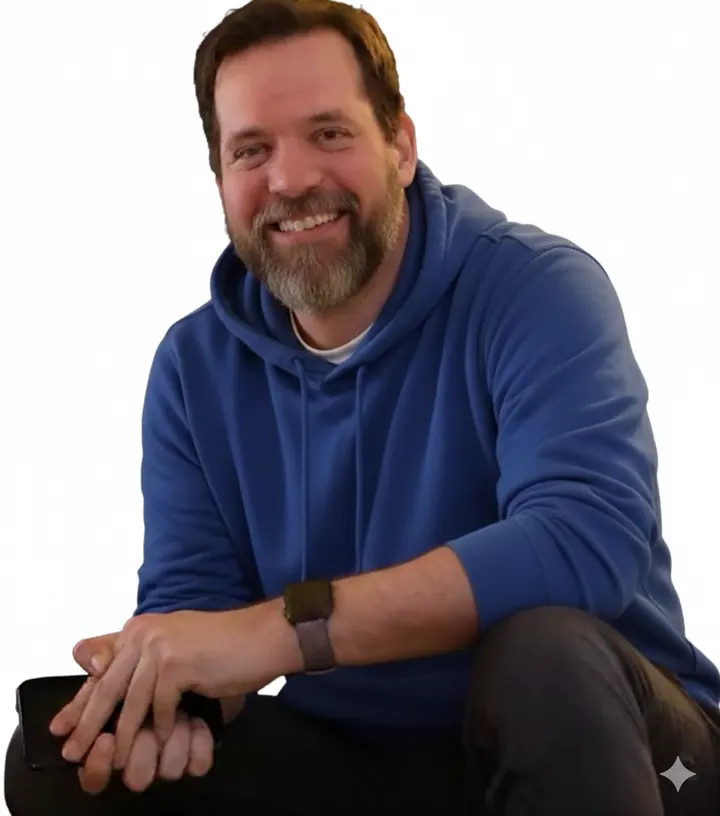
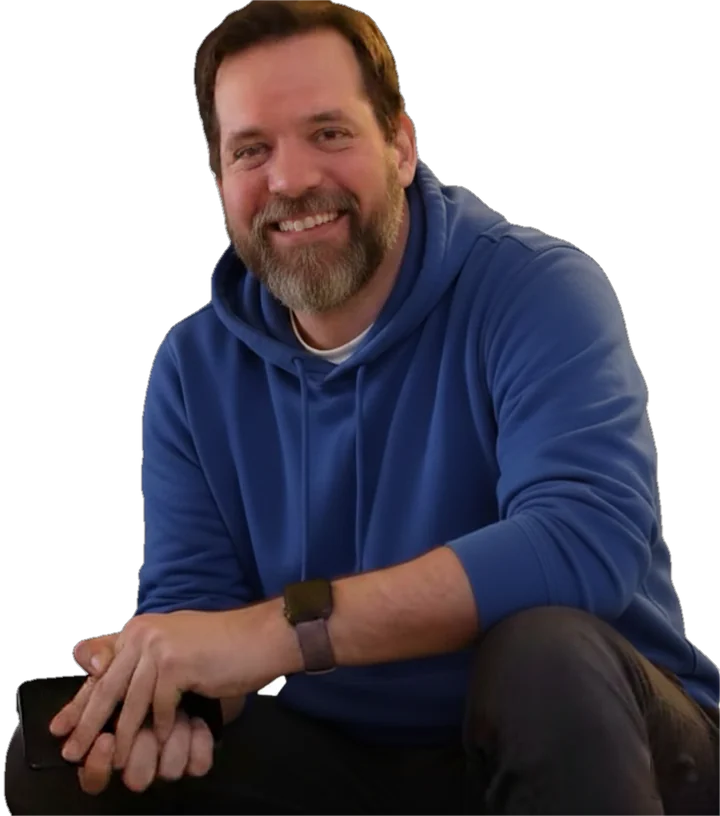
Soften homepage tone and use a transparent portrait
Cut the photo out with a clean alpha edge, drop the Gemini mark, and move the introduction below the contact buttons without the salesy claims.

diff --git a/index.html b/index.html
@@ -8,7 +8,7 @@
   <title>Computerhulp aan huis | Nijssen Computers</title>
   <meta name="description" content="Computerhulp aan huis in Leidschendam, Voorburg en Voorschoten. Jeroen Nijssen komt zelf bij u langs. Apple, Windows, Linux. Particulier €60 per uur.">
   <link rel="canonical" href="https://www.nijssencomputers.nl/">
-  <link rel="stylesheet" href="/style.css?v=20260924-home1">
+  <link rel="stylesheet" href="/style.css?v=20260924-home2">
   <meta property="og:type" content="website">
   <meta property="og:title" content="Computerhulp aan huis | Nijssen Computers">
   <meta property="og:description" content="Computerhulp aan huis in Leidschendam, Voorburg en Voorschoten. Jeroen Nijssen komt zelf bij u langs. Apple, Windows, Linux. Particulier €60 per uur.">
@@ -29,8 +29,8 @@
       allow_ad_personalization_signals: false
     });
   </script>
-  <script src="/nav.js?v=20260924-home1" defer></script>
-  <script src="/analytics-events.js?v=20260924-home1" defer></script>
+  <script src="/nav.js?v=20260924-home2" defer></script>
+  <script src="/analytics-events.js?v=20260924-home2" defer></script>
 </head>
 <body class="homepage">
   <a class="skip-link" href="#main-content">Direct naar de inhoud</a>
@@ -104,13 +104,12 @@
         <figure class="home-portrait">
           <picture>
             <source srcset="/jeroen-720.webp" type="image/webp">
-            <img src="/jeroen-720.jpg" alt="Jeroen Nijssen" class="home-portrait-img" width="720" height="816" fetchpriority="high" decoding="async">
+            <img src="/jeroen-720.png" alt="Jeroen Nijssen" class="home-portrait-img" width="720" height="816" fetchpriority="high" decoding="async">
           </picture>
         </figure>
         <div class="home-hero-copy">
           <h1>Computerhulp aan huis</h1>
-          <p class="home-lead">Ik ben Jeroen Nijssen. Ik kom zelf bij u langs — altijd dezelfde persoon, geen wisselende monteurs.</p>
-          <p class="hero-area">Ik woon in Leidschendam-Voorburg en help in Leidschendam, Voorburg, Voorschoten en omgeving.</p>
+          <p class="tagline">Ik help u met uw computer, telefoon, printer en wifi.</p>
           <div class="hero-actions">
             <a href="https://wa.me/31624382361" class="cta-button cta-whatsapp">WhatsApp Jeroen</a>
             <a href="tel:+31624382361" class="cta-button cta-phone">Bel 06 2438 2361</a>
@@ -118,25 +117,13 @@
           <p class="hero-note">Particulier €60 per uur · Sinds 2008</p>
         </div>
       </div>
+      <p class="home-intro">Ik ben Jeroen Nijssen. Sinds 2008 help ik particulieren en bedrijven met hun computers en andere apparaten. Ik woon in Leidschendam-Voorburg.</p>
     </section>
 
     <section id="over-mij" class="section-block home-about">
-      <h2>Wie er bij u in huis komt</h2>
-      <p>U belt of appt rechtstreeks met mij. Sinds 2008 help ik particulieren en bedrijven met computers en andere apparaten, met uitleg in gewone taal.</p>
-      <ul class="home-points">
-        <li>
-          <strong>Altijd dezelfde persoon</strong>
-          <span>Geen callcenter en geen wisselende ploeg. U spreekt mij, en ik kom zelf.</span>
-        </li>
-        <li>
-          <strong>Dichtbij, niet landelijk</strong>
-          <span>Ik woon in Leidschendam-Voorburg. Ik werk in deze regio, niet in heel Nederland.</span>
-        </li>
-        <li>
-          <strong>Eerst kijken, dan adviseren</strong>
-          <span>Geen onnodige vervanging van apparatuur, maar advies dat past bij uw situatie.</span>
-        </li>
-      </ul>
+      <h2>Over mij</h2>
+      <p>Als u belt of appt, krijgt u rechtstreeks contact met mij. Ik werk met Apple, Windows en Linux. Of het nu om een MacBook, een pc, een telefoon of een bedrijfsnetwerk gaat: ik leg uit wat er aan de hand is en wat er nodig is.</p>
+      <p>Geen onnodige vervanging van apparatuur, maar advies dat past bij uw situatie.</p>
     </section>
 
     <section id="tarief" class="section-block home-tarief">
@@ -185,7 +172,7 @@
     <section id="werkgebied" class="section-block home-area">
       <h2>Waar ik werk</h2>
       <p>Leidschendam, Voorburg, Voorschoten en omgeving.</p>
-      <p>Ik woon zelf in Leidschendam-Voorburg. Bij u thuis of op uw bedrijf, op afspraak.</p>
+      <p>Bij u thuis of op uw bedrijf, op afspraak.</p>
     </section>
 
     <section id="contact" class="section-block contact-section">

diff --git a/style.css b/style.css
@@ -153,22 +153,18 @@ main { padding-left: max(1.25rem, env(safe-area-inset-left)); padding-right: max
 /* Homepage: personal, local, calm. Other pages keep the shared article layout. */
 .homepage { font-size: 1.125rem; }
 .homepage main { max-width: 52rem; padding-top: 1.75rem; }
-.homepage .hero { padding: 0.5rem 0 2.85rem; margin-bottom: 0.35rem; text-align: left; border-bottom: 1px solid #e6e8e4; }
-.homepage .hero h1 { font-size: clamp(1.4rem, 6.5vw, 2rem); margin: 0 0 0.85rem; }
-.homepage .home-hero-inner { display: grid; gap: 1.5rem 2.75rem; align-items: center; }
-.homepage .home-portrait { margin: 0; max-width: 15rem; }
-.homepage .home-portrait-img { width: 100%; height: auto; aspect-ratio: 720 / 816; object-fit: contain; }
-.homepage .home-lead { margin: 0 0 0.85rem; max-width: 34rem; color: var(--color-text); font-size: 1.2rem; line-height: 1.5; }
-.homepage .hero-area { margin-bottom: 1.35rem; font-size: 1.0625rem; }
-.homepage .hero-actions { justify-content: flex-start; margin-bottom: 0.95rem; }
+.homepage .hero { padding: 0.5rem 0 2.5rem; text-align: left; }
+.homepage .hero h1 { font-size: clamp(1.4rem, 6.5vw, 2rem); margin: 0 0 0.7rem; }
+.homepage .home-hero-inner { display: grid; gap: 1.25rem 2.5rem; align-items: center; }
+.homepage .home-portrait { margin: 0; max-width: 15rem; background: none; }
+.homepage .home-portrait-img { width: 100%; height: auto; aspect-ratio: 720 / 816; object-fit: contain; background: none; border: 0; border-radius: 0; box-shadow: none; }
+.homepage .hero .tagline { margin: 0 0 1.15rem; max-width: 32rem; color: var(--color-text); }
+.homepage .hero-actions { justify-content: flex-start; margin-bottom: 0.85rem; }
 .homepage .hero-note { font-size: 1rem; }
+.homepage .home-intro { margin: 1.5rem 0 0; max-width: 40rem; color: var(--color-text-soft); }
 .homepage .section-block { margin-bottom: 3.25rem; }
 .homepage .section-block > p,
 .homepage .home-audience p { max-width: 40rem; }
-.homepage .home-points { list-style: none; margin: 1.4rem 0 0; padding: 0; display: grid; gap: 1.15rem; }
-.homepage .home-points li { margin: 0; padding: 0; }
-.homepage .home-points strong { display: block; margin-bottom: 0.2rem; color: var(--color-accent); font-size: 1.125rem; }
-.homepage .home-points span { display: block; color: var(--color-text-soft); }
 .homepage .home-prices { margin: 1.15rem 0 0; display: grid; grid-template-columns: repeat(2, minmax(0, 1fr)); gap: 1.25rem 2.5rem; }
 .homepage .home-prices dt { margin: 0; color: var(--color-accent); font-weight: 600; }
 .homepage .home-prices dd { margin: 0; color: var(--color-text-soft); }
@@ -190,13 +186,12 @@ main { padding-left: max(1.25rem, env(safe-area-inset-left)); padding-right: max
 }
 @media (max-width: 760px) {
   .homepage main { padding-top: 1.15rem; }
-  .homepage .hero { padding-bottom: 2.25rem; }
+  .homepage .hero { padding-bottom: 2rem; }
   .homepage .home-portrait { max-width: 13.5rem; }
   .homepage .section-block { margin-bottom: 2.5rem; }
 }
 @media (max-width: 520px) {
   .homepage .home-prices { grid-template-columns: 1fr; gap: 1.1rem; }
-  .homepage .home-lead { font-size: 1.125rem; }
 }
 @media (prefers-reduced-motion: no-preference) { html { scroll-behavior: smooth; } }
 @media print {

diff --git a/src/home.html b/src/home.html
@@ -3,13 +3,12 @@
         <figure class="home-portrait">
           <picture>
             <source srcset="/jeroen-720.webp" type="image/webp">
-            <img src="/jeroen-720.jpg" alt="Jeroen Nijssen" class="home-portrait-img" width="720" height="816" fetchpriority="high" decoding="async">
+            <img src="/jeroen-720.png" alt="Jeroen Nijssen" class="home-portrait-img" width="720" height="816" fetchpriority="high" decoding="async">
           </picture>
         </figure>
         <div class="home-hero-copy">
           <h1>Computerhulp aan huis</h1>
-          <p class="home-lead">Ik ben Jeroen Nijssen. Ik kom zelf bij u langs — altijd dezelfde persoon, geen wisselende monteurs.</p>
-          <p class="hero-area">Ik woon in Leidschendam-Voorburg en help in Leidschendam, Voorburg, Voorschoten en omgeving.</p>
+          <p class="tagline">Ik help u met uw computer, telefoon, printer en wifi.</p>
           <div class="hero-actions">
             <a href="https://wa.me/31624382361" class="cta-button cta-whatsapp">WhatsApp Jeroen</a>
             <a href="tel:+31624382361" class="cta-button cta-phone">Bel 06 2438 2361</a>
@@ -17,25 +16,13 @@
           <p class="hero-note">Particulier €60 per uur · Sinds 2008</p>
         </div>
       </div>
+      <p class="home-intro">Ik ben Jeroen Nijssen. Sinds 2008 help ik particulieren en bedrijven met hun computers en andere apparaten. Ik woon in Leidschendam-Voorburg.</p>
     </section>
 
     <section id="over-mij" class="section-block home-about">
-      <h2>Wie er bij u in huis komt</h2>
-      <p>U belt of appt rechtstreeks met mij. Sinds 2008 help ik particulieren en bedrijven met computers en andere apparaten, met uitleg in gewone taal.</p>
-      <ul class="home-points">
-        <li>
-          <strong>Altijd dezelfde persoon</strong>
-          <span>Geen callcenter en geen wisselende ploeg. U spreekt mij, en ik kom zelf.</span>
-        </li>
-        <li>
-          <strong>Dichtbij, niet landelijk</strong>
-          <span>Ik woon in Leidschendam-Voorburg. Ik werk in deze regio, niet in heel Nederland.</span>
-        </li>
-        <li>
-          <strong>Eerst kijken, dan adviseren</strong>
-          <span>Geen onnodige vervanging van apparatuur, maar advies dat past bij uw situatie.</span>
-        </li>
-      </ul>
+      <h2>Over mij</h2>
+      <p>Als u belt of appt, krijgt u rechtstreeks contact met mij. Ik werk met Apple, Windows en Linux. Of het nu om een MacBook, een pc, een telefoon of een bedrijfsnetwerk gaat: ik leg uit wat er aan de hand is en wat er nodig is.</p>
+      <p>Geen onnodige vervanging van apparatuur, maar advies dat past bij uw situatie.</p>
     </section>
 
     <section id="tarief" class="section-block home-tarief">
@@ -84,7 +71,7 @@
     <section id="werkgebied" class="section-block home-area">
       <h2>Waar ik werk</h2>
       <p>Leidschendam, Voorburg, Voorschoten en omgeving.</p>
-      <p>Ik woon zelf in Leidschendam-Voorburg. Bij u thuis of op uw bedrijf, op afspraak.</p>
+      <p>Bij u thuis of op uw bedrijf, op afspraak.</p>
     </section>
 
     <section id="contact" class="section-block contact-section">

diff --git a/computerhulp-aan-huis-leidschendam.html b/computerhulp-aan-huis-leidschendam.html
@@ -8,7 +8,7 @@
   <title>Computer reparatie &amp; hulp aan huis Leidschendam | Nijssen</title>
   <meta name="description" content="Computer reparatie en hulp aan huis in Leidschendam. Jeroen onderzoekt het probleem bij u thuis in Leidschendam-Voorburg. Apple, Windows, Linux. €60 per uur.">
   <link rel="canonical" href="https://www.nijssencomputers.nl/computerhulp-aan-huis-leidschendam">
-  <link rel="stylesheet" href="/style.css?v=20260924-home1">
+  <link rel="stylesheet" href="/style.css?v=20260924-home2">
   <meta property="og:type" content="website">
   <meta property="og:title" content="Computer reparatie &amp; hulp aan huis Leidschendam | Nijssen">
   <meta property="og:description" content="Computer reparatie en hulp aan huis in Leidschendam. Jeroen onderzoekt het probleem bij u thuis in Leidschendam-Voorburg. Apple, Windows, Linux. €60 per uur.">
@@ -29,8 +29,8 @@
       allow_ad_personalization_signals: false
     });
   </script>
-  <script src="/nav.js?v=20260924-home1" defer></script>
-  <script src="/analytics-events.js?v=20260924-home1" defer></script>
+  <script src="/nav.js?v=20260924-home2" defer></script>
+  <script src="/analytics-events.js?v=20260924-home2" defer></script>
 </head>
 <body class="detailpage">
   <a class="skip-link" href="#main-content">Direct naar de inhoud</a>

diff --git a/computerhulp-aan-huis-voorschoten.html b/computerhulp-aan-huis-voorschoten.html
@@ -8,7 +8,7 @@
   <title>Computerhulp aan huis in Voorschoten | Nijssen Computers</title>
   <meta name="description" content="Computerhulp aan huis in Voorschoten. Jeroen helpt met Mac, Windows, Linux, printer, wifi en bestanden overzetten. Op afspraak, particulier €60 per uur.">
   <link rel="canonical" href="https://www.nijssencomputers.nl/computerhulp-aan-huis-voorschoten">
-  <link rel="stylesheet" href="/style.css?v=20260924-home1">
+  <link rel="stylesheet" href="/style.css?v=20260924-home2">
   <meta property="og:type" content="website">
   <meta property="og:title" content="Computerhulp aan huis in Voorschoten | Nijssen Computers">
   <meta property="og:description" content="Computerhulp aan huis in Voorschoten. Jeroen helpt met Mac, Windows, Linux, printer, wifi en bestanden overzetten. Op afspraak, particulier €60 per uur.">
@@ -29,8 +29,8 @@
       allow_ad_personalization_signals: false
     });
   </script>
-  <script src="/nav.js?v=20260924-home1" defer></script>
-  <script src="/analytics-events.js?v=20260924-home1" defer></script>
+  <script src="/nav.js?v=20260924-home2" defer></script>
+  <script src="/analytics-events.js?v=20260924-home2" defer></script>
 </head>
 <body class="detailpage">
   <a class="skip-link" href="#main-content">Direct naar de inhoud</a>

diff --git a/computerhulp-aan-huis-voorburg.html b/computerhulp-aan-huis-voorburg.html
@@ -8,7 +8,7 @@
   <title>Computerhulp aan huis Voorburg | Snel &amp; lokaal | Nijssen</title>
   <meta name="description" content="Computerhulp aan huis in Voorburg. Jeroen komt langs voor diagnose, printer, wifi of een nieuwe computer. Duidelijke uitleg. €60 per uur. Bel of app.">
   <link rel="canonical" href="https://www.nijssencomputers.nl/computerhulp-aan-huis-voorburg">
-  <link rel="stylesheet" href="/style.css?v=20260924-home1">
+  <link rel="stylesheet" href="/style.css?v=20260924-home2">
   <meta property="og:type" content="website">
   <meta property="og:title" content="Computerhulp aan huis Voorburg | Snel &amp; lokaal | Nijssen">
   <meta property="og:description" content="Computerhulp aan huis in Voorburg. Jeroen komt langs voor diagnose, printer, wifi of een nieuwe computer. Duidelijke uitleg. €60 per uur. Bel of app.">
@@ -29,8 +29,8 @@
       allow_ad_personalization_signals: false
     });
   </script>
-  <script src="/nav.js?v=20260924-home1" defer></script>
-  <script src="/analytics-events.js?v=20260924-home1" defer></script>
+  <script src="/nav.js?v=20260924-home2" defer></script>
+  <script src="/analytics-events.js?v=20260924-home2" defer></script>
 </head>
 <body class="detailpage">
   <a class="skip-link" href="#main-content">Direct naar de inhoud</a>

diff --git a/wifi-netwerk-hulp-leidschendam.html b/wifi-netwerk-hulp-leidschendam.html
@@ -8,7 +8,7 @@
   <title>Wifi- en netwerkhulp in Leidschendam | Nijssen Computers</title>
   <meta name="description" content="Wifi valt weg of internet is traag in Leidschendam? Jeroen helpt aan huis met verbinding, router, bereik en netwerkapparaten. Particulier €60 per uur.">
   <link rel="canonical" href="https://www.nijssencomputers.nl/wifi-netwerk-hulp-leidschendam">
-  <link rel="stylesheet" href="/style.css?v=20260924-home1">
+  <link rel="stylesheet" href="/style.css?v=20260924-home2">
   <meta property="og:type" content="website">
   <meta property="og:title" content="Wifi- en netwerkhulp in Leidschendam | Nijssen Computers">
   <meta property="og:description" content="Wifi valt weg of internet is traag in Leidschendam? Jeroen helpt aan huis met verbinding, router, bereik en netwerkapparaten. Particulier €60 per uur.">
@@ -29,8 +29,8 @@
       allow_ad_personalization_signals: false
     });
   </script>
-  <script src="/nav.js?v=20260924-home1" defer></script>
-  <script src="/analytics-events.js?v=20260924-home1" defer></script>
+  <script src="/nav.js?v=20260924-home2" defer></script>
+  <script src="/analytics-events.js?v=20260924-home2" defer></script>
 </head>
 <body class="detailpage">
   <a class="skip-link" href="#main-content">Direct naar de inhoud</a>

diff --git a/wifi-netwerk-hulp-voorschoten.html b/wifi-netwerk-hulp-voorschoten.html
@@ -8,7 +8,7 @@
   <title>Wifi- en netwerkhulp in Voorschoten | Nijssen Computers</title>
   <meta name="description" content="Wifi valt weg of internet is traag in Voorschoten? Jeroen helpt aan huis met verbinding, router, bereik en netwerkapparaten. Particulier €60 per uur.">
   <link rel="canonical" href="https://www.nijssencomputers.nl/wifi-netwerk-hulp-voorschoten">
-  <link rel="stylesheet" href="/style.css?v=20260924-home1">
+  <link rel="stylesheet" href="/style.css?v=20260924-home2">
   <meta property="og:type" content="website">
   <meta property="og:title" content="Wifi- en netwerkhulp in Voorschoten | Nijssen Computers">
   <meta property="og:description" content="Wifi valt weg of internet is traag in Voorschoten? Jeroen helpt aan huis met verbinding, router, bereik en netwerkapparaten. Particulier €60 per uur.">
@@ -29,8 +29,8 @@
       allow_ad_personalization_signals: false
     });
   </script>
-  <script src="/nav.js?v=20260924-home1" defer></script>
-  <script src="/analytics-events.js?v=20260924-home1" defer></script>
+  <script src="/nav.js?v=20260924-home2" defer></script>
+  <script src="/analytics-events.js?v=20260924-home2" defer></script>
 </head>
 <body class="detailpage">
   <a class="skip-link" href="#main-content">Direct naar de inhoud</a>

diff --git a/wifi-netwerk-hulp-voorburg.html b/wifi-netwerk-hulp-voorburg.html
@@ -8,7 +8,7 @@
   <title>Wifi- en netwerkhulp in Voorburg | Nijssen Computers</title>
   <meta name="description" content="Wifi valt weg of internet is traag in Voorburg? Jeroen helpt aan huis met verbinding, router, bereik en netwerkapparaten. Particulier €60 per uur.">
   <link rel="canonical" href="https://www.nijssencomputers.nl/wifi-netwerk-hulp-voorburg">
-  <link rel="stylesheet" href="/style.css?v=20260924-home1">
+  <link rel="stylesheet" href="/style.css?v=20260924-home2">
   <meta property="og:type" content="website">
   <meta property="og:title" content="Wifi- en netwerkhulp in Voorburg | Nijssen Computers">
   <meta property="og:description" content="Wifi valt weg of internet is traag in Voorburg? Jeroen helpt aan huis met verbinding, router, bereik en netwerkapparaten. Particulier €60 per uur.">
@@ -29,8 +29,8 @@
       allow_ad_personalization_signals: false
     });
   </script>
-  <script src="/nav.js?v=20260924-home1" defer></script>
-  <script src="/analytics-events.js?v=20260924-home1" defer></script>
+  <script src="/nav.js?v=20260924-home2" defer></script>
+  <script src="/analytics-events.js?v=20260924-home2" defer></script>
 </head>
 <body class="detailpage">
   <a class="skip-link" href="#main-content">Direct naar de inhoud</a>

diff --git a/laptop-traag-leidschendam.html b/laptop-traag-leidschendam.html
@@ -8,7 +8,7 @@
   <title>Laptop traag of reparatie Leidschendam | Aan huis | Nijssen</title>
   <meta name="description" content="Laptop traag of laptop reparatie in Leidschendam? Jeroen onderzoekt eerst de oorzaak aan huis. Onderhoud, herstel of upgrade. €60 per uur.">
   <link rel="canonical" href="https://www.nijssencomputers.nl/laptop-traag-leidschendam">
-  <link rel="stylesheet" href="/style.css?v=20260924-home1">
+  <link rel="stylesheet" href="/style.css?v=20260924-home2">
   <meta property="og:type" content="website">
   <meta property="og:title" content="Laptop traag of reparatie Leidschendam | Aan huis | Nijssen">
   <meta property="og:description" content="Laptop traag of laptop reparatie in Leidschendam? Jeroen onderzoekt eerst de oorzaak aan huis. Onderhoud, herstel of upgrade. €60 per uur.">
@@ -29,8 +29,8 @@
       allow_ad_personalization_signals: false
     });
   </script>
-  <script src="/nav.js?v=20260924-home1" defer></script>
-  <script src="/analytics-events.js?v=20260924-home1" defer></script>
+  <script src="/nav.js?v=20260924-home2" defer></script>
+  <script src="/analytics-events.js?v=20260924-home2" defer></script>
 </head>
 <body class="detailpage">
   <a class="skip-link" href="#main-content">Direct naar de inhoud</a>

diff --git a/mkb-it-beheer-leidschendam-voorburg.html b/mkb-it-beheer-leidschendam-voorburg.html
@@ -8,7 +8,7 @@
   <title>IT-beheer voor bedrijven | Nijssen Computers</title>
   <meta name="description" content="Zakelijke IT-ondersteuning in Leidschendam-Voorburg. Apple, Windows, Linux, Microsoft 365, servers, netwerken en back-ups. Jeroen Nijssen, sinds 2008.">
   <link rel="canonical" href="https://www.nijssencomputers.nl/mkb-it-beheer-leidschendam-voorburg">
-  <link rel="stylesheet" href="/style.css?v=20260924-home1">
+  <link rel="stylesheet" href="/style.css?v=20260924-home2">
   <meta property="og:type" content="website">
   <meta property="og:title" content="IT-beheer voor bedrijven | Nijssen Computers">
   <meta property="og:description" content="Zakelijke IT-ondersteuning in Leidschendam-Voorburg. Apple, Windows, Linux, Microsoft 365, servers, netwerken en back-ups. Jeroen Nijssen, sinds 2008.">
@@ -29,8 +29,8 @@
       allow_ad_personalization_signals: false
     });
   </script>
-  <script src="/nav.js?v=20260924-home1" defer></script>
-  <script src="/analytics-events.js?v=20260924-home1" defer></script>
+  <script src="/nav.js?v=20260924-home2" defer></script>
+  <script src="/analytics-events.js?v=20260924-home2" defer></script>
 </head>
 <body class="detailpage">
   <a class="skip-link" href="#main-content">Direct naar de inhoud</a>

diff --git a/spoed-computerhulp-leidschendam.html b/spoed-computerhulp-leidschendam.html
@@ -8,7 +8,7 @@
   <title>Dringende computerhulp Leidschendam | Nijssen Computers</title>
   <meta name="description" content="Dringend computerhulp nodig in Leidschendam? Neem contact op met Jeroen om het probleem en de beschikbare afspraakmogelijkheden te bespreken.">
   <link rel="canonical" href="https://www.nijssencomputers.nl/spoed-computerhulp-leidschendam">
-  <link rel="stylesheet" href="/style.css?v=20260924-home1">
+  <link rel="stylesheet" href="/style.css?v=20260924-home2">
   <meta property="og:type" content="website">
   <meta property="og:title" content="Dringende computerhulp Leidschendam | Nijssen Computers">
   <meta property="og:description" content="Dringend computerhulp nodig in Leidschendam? Neem contact op met Jeroen om het probleem en de beschikbare afspraakmogelijkheden te bespreken.">
@@ -29,8 +29,8 @@
       allow_ad_personalization_signals: false
     });
   </script>
-  <script src="/nav.js?v=20260924-home1" defer></script>
-  <script src="/analytics-events.js?v=20260924-home1" defer></script>
+  <script src="/nav.js?v=20260924-home2" defer></script>
+  <script src="/analytics-events.js?v=20260924-home2" defer></script>
 </head>
 <body class="detailpage">
   <a class="skip-link" href="#main-content">Direct naar de inhoud</a>
